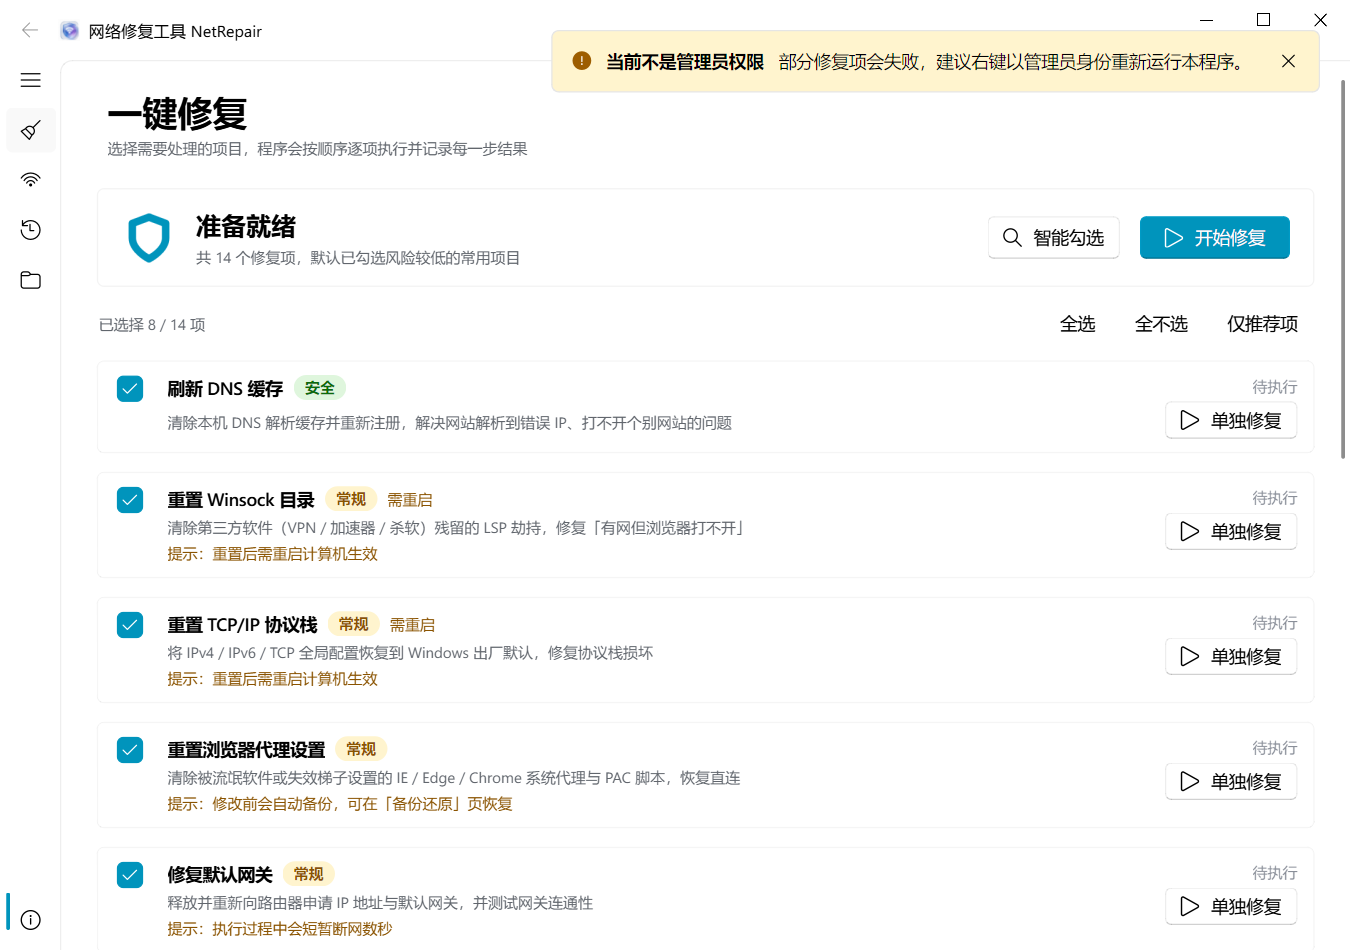
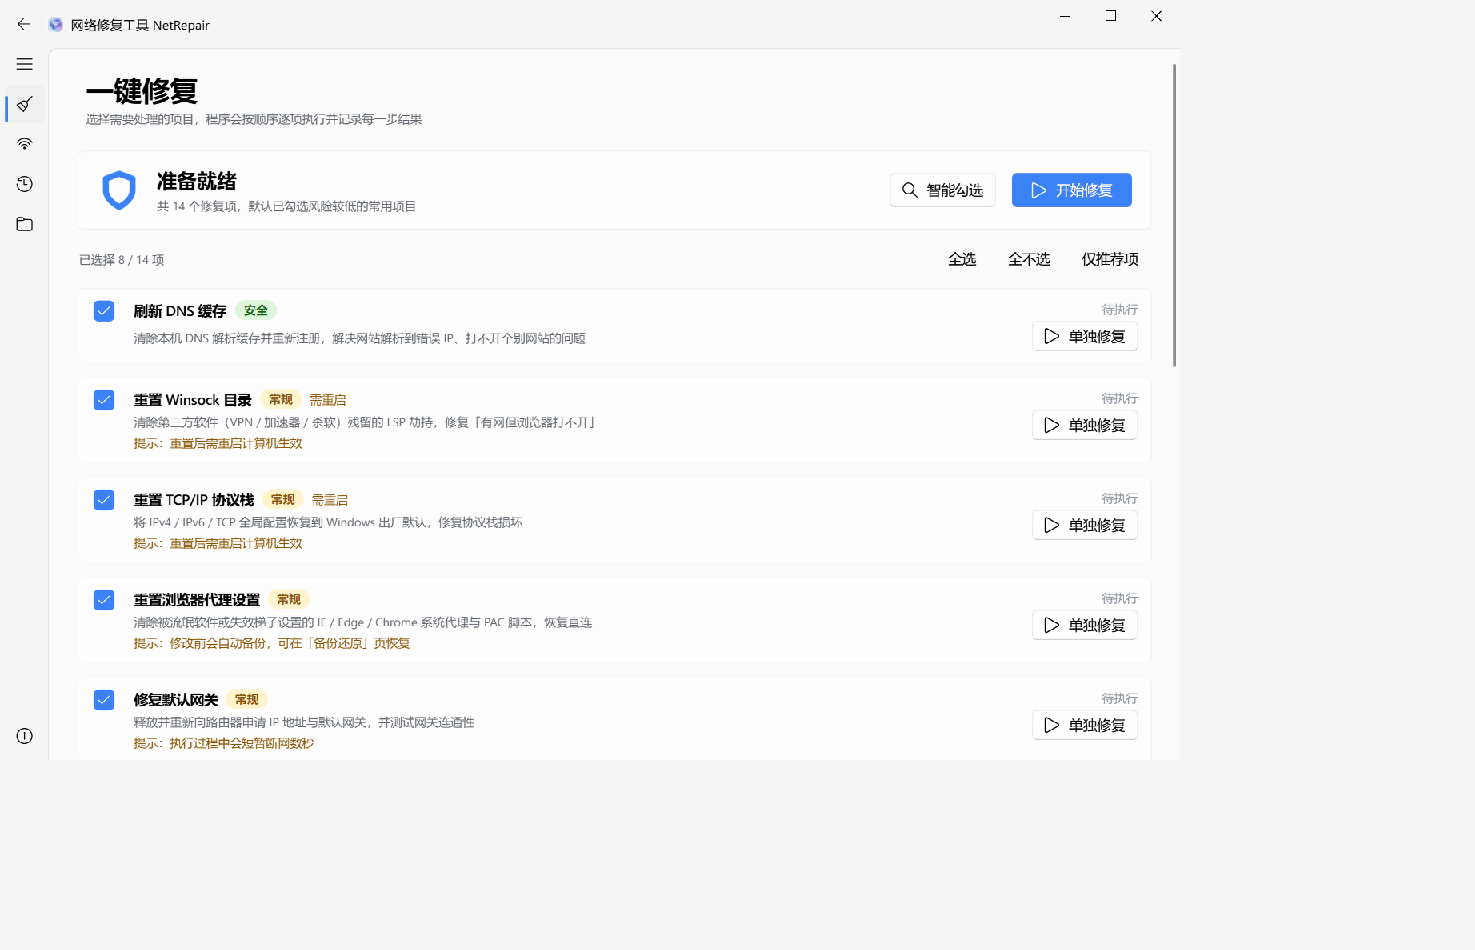
docs: 重新生成截图（v1.2.0，switchTo 导航 + 合成白底消除透明边伪影）

diff --git a/screenshot.py b/screenshot.py
@@ -1,132 +1,144 @@
-"""自动截图脚本：为 README 生成 5 张界面截图。
+"""自动截图脚本：为 README 生成 5 张界面截图（v1.2.0）。
+
+修复要点（相对旧版）：
+  1. 调用 setTheme(Theme.LIGHT) —— 否则 FluentWindow 背景不填，grab() 会把
+     透明区域也截下来（旧图左右大黑边的根因）。
+  2. 切页前先关掉所有 InfoBar（含"当前不是管理员权限"提示条）。
+  3. 切页后多跑 processEvents 并加一次单次定时器等待，确保页面真正渲染完成
+     （旧版 about 截图实际上是修复页 = 导航没生效就 grab 了）。
+  4. 显式 setThemeColor 选一个统一主题色（与 app 默认一致），最后一张切到
+     蓝绿色作为"主题色切换"对照。
 
 用法：
     venv\\Scripts\\python.exe screenshot.py
-
-输出：
-    shots/fluent-about.png
-    shots/fluent-repair.png
-    shots/fluent-diagnose.png
-    shots/fluent-backup.png
-    shots/fluent-accent-blue.png（主题色切换页）
 """
 from __future__ import annotations
 
 import os
 import sys
 
-# ---- 路径设置 ----
 ROOT = os.path.dirname(os.path.abspath(__file__))
 sys.path.insert(0, ROOT)
 os.chdir(ROOT)
 
-# 跳过管理员提权，截图不需要
+# 跳过管理员提权检查（截图不需要）
 sys.argv.append("--no-elevate")
 
-from PySide6.QtCore import Qt, QTimer
-from PySide6.QtGui import QColor, QFont, QFontDatabase
+from PySide6.QtCore import QEventLoop, QTimer, Qt
+from PySide6.QtGui import QColor, QFont, QFontDatabase, QPainter, QPixmap
 from PySide6.QtWidgets import QApplication
-from qfluentwidgets import setThemeColor
+from qfluentwidgets import InfoBar, setTheme, setThemeColor, Theme
 
 from netfix.ui import MainWindow
 
 SHOTS_DIR = os.path.join(ROOT, "shots")
 os.makedirs(SHOTS_DIR, exist_ok=True)
 
-# 截图配置：(文件名, routeKey, 说明)
+# 与 app 默认一致的主题色（_ACCENTS[0]）
+DEFAULT_ACCENT = "#0094BC"
+
+# 截图配置：(文件名, MainWindow 上的页面属性, 说明)
+# 用 switchTo(页面对象) 导航，比 navigationInterface.setCurrentItem(routeKey)
+# 稳定得多（旧版 routeKey 切换在沙箱里完全不生效，5 张都截到首页）。
 SHOTS = [
-    ("fluent-repair.png",   "repairInterface",   "一键修复（首页）"),
-    ("fluent-diagnose.png", "diagnoseInterface", "网络诊断"),
-    ("fluent-backup.png",   "backupInterface",   "备份还原"),
-    ("fluent-about.png",    "aboutInterface",    "关于"),
+    ("fluent-repair.png",   "repairPage",   "一键修复（首页）"),
+    ("fluent-diagnose.png", "diagnosePage", "网络诊断"),
+    ("fluent-backup.png",   "backupPage",   "备份还原"),
+    ("fluent-about.png",    "aboutPage",    "关于"),
 ]
 
 
 def setup_chinese_font(app: QApplication) -> None:
-    """强制使用系统中文字体，解决 offscreen/沙箱中文渲染为方框的问题。"""
-    # 优先级列表：Windows 常见中文字体
     fallbacks = [
-        "Microsoft YaHei UI",
-        "Microsoft YaHei",
-        "SimHei",
-        "PingFang SC",
-        "Noto Sans CJK SC",
-        "WenQuanYi Micro Hei",
+        "Microsoft YaHei UI", "Microsoft YaHei", "SimHei",
+        "PingFang SC", "Noto Sans CJK SC", "WenQuanYi Micro Hei",
     ]
-
-    # 尝试从系统字体库查找第一个可用的中文字体
     families = QFontDatabase.families()
-    chosen = None
-    for font_name in fallbacks:
-        if font_name in families:
-            chosen = font_name
-            break
-
-    if chosen:
-        font = QFont(chosen, 9)
-        app.setFont(font)
-        print(f"Font set: {chosen}")
-    else:
-        print(f"WARNING: No Chinese font found. Available sample: {families[:10]}")
-        # 退而求其次：用默认字体但设大一点
-        font = app.font()
-        font.setFamilies(["Microsoft YaHei UI", "Sans Serif"])
-        app.setFont(font)
+    for name in fallbacks:
+        if name in families:
+            app.setFont(QFont(name, 9))
+            print(f"Font: {name}")
+            return
+    print(f"WARN: no CN font, sample: {families[:8]}")
+    f = app.font()
+    f.setFamilies(["Microsoft YaHei UI", "Sans Serif"])
+    app.setFont(f)
 
 
-def grab_window(window: MainWindow, path: str) -> None:
+def close_all_infobars(window: QApplication) -> None:
+    """清掉所有 InfoBar（主要是 _greet 弹的'非管理员'提示条）。"""
+    for w in window.allWidgets():
+        if isinstance(w, InfoBar):
+            w.close()
+
+
+def wait_ms(ms: int) -> None:
+    """跑 processEvents 并真实等待 ms 毫秒（用 QEventLoop + QTimer）。"""
+    loop = QEventLoop()
+    QTimer.singleShot(ms, loop.quit)
+    loop.exec()
+
+
+def grab(window: MainWindow, filename: str) -> None:
+    """截图并把透明区域合成为白底（消除沙箱里 grab 出来的黑边伪影）。"""
     window.repaint()
-    QApplication.processEvents()
+    wait_ms(120)
+    raw = window.grab()
+    # 合成白底：透明区域填成浅灰白（Fluent Design LIGHT 主题底色）
+    bg = QPixmap(raw.size())
+    bg.fill(QColor("#F5F5F5"))
+    painter = QPainter(bg)
+    painter.drawPixmap(0, 0, raw)
+    painter.end()
+    path = os.path.join(SHOTS_DIR, filename)
+    bg.save(path, "PNG")
+    print(f"  OK {filename}  {bg.width()}x{bg.height()}  "
+          f"{os.path.getsize(path)//1024} KB")
 
-    pixmap = window.grab()
-    full_path = os.path.join(SHOTS_DIR, path)
-    pixmap.save(full_path, "PNG")
-    size_kb = os.path.getsize(full_path) / 1024
-    print(f"  OK {path} ({pixmap.width()}x{pixmap.height()}, {size_kb:.0f} KB)")
+
+def switch_to(window: MainWindow, page_attr: str) -> None:
+    """用 FluentWindow.switchTo(页面对象) 切换——比 routeKey 稳。"""
+    page = getattr(window, page_attr)
+    window.switchTo(page)
+    wait_ms(300)  # 给导航 + 页面渲染留时间
 
 
 def main() -> int:
     app = QApplication(sys.argv)
     setup_chinese_font(app)
 
+    # 关键：设置 LIGHT 主题，让 FluentWindow 有不透明背景
+    setTheme(Theme.LIGHT)
+    # 统一主题色（与 app 默认一致）；最后一张切到蓝绿色对比
+    setThemeColor(QColor(DEFAULT_ACCENT))
+
     window = MainWindow()
-    window.resize(1080, 760)
+    window.resize(1180, 760)
     window.show()
-    QApplication.processEvents()
+    wait_ms(400)  # 等 _greet InfoBar 弹出来，然后再清掉
 
-    for _ in range(30):
-        QApplication.processEvents()
+    # 1) 关闭"当前不是管理员权限"提示条（screenshot 进程非管理员）
+    close_all_infobars(app)
+    wait_ms(120)
 
-    print("Screenshot start...\n")
+    print("== screenshots ==\n")
+    for filename, page_attr, desc in SHOTS:
+        switch_to(window, page_attr)
+        close_all_infobars(app)  # 某些页切换可能再触发
+        grab(window, filename)
+        print(f"   ({desc})\n")
 
-    nav = window.navigationInterface
-
-    for filename, route_key, desc in SHOTS:
-        nav.setCurrentItem(route_key)
-        QApplication.processEvents()
-        for _ in range(15):
-            QApplication.processEvents()
-
-        grab_window(window, filename)
-        print(f"  -> {desc}\n")
-
-    # === 第 5 张：蓝色主题色 + 修复页 ===
-    print("Switching to BLUE theme...")
-    setThemeColor(QColor("#0094BC"))
-    QApplication.processEvents()
-    for _ in range(20):
-        QApplication.processEvents()
-
-    nav.setCurrentItem("repairInterface")
-    QApplication.processEvents()
-    for _ in range(15):
-        QApplication.processEvents()
-
-    grab_window(window, "fluent-accent-blue.png")
-    print("  -> Theme color (BLUE) + Repair page\n")
+    # 第 5 张：切到纯蓝色主题色 + 修复页（与默认青绿形成对比，演示"主题色切换"）
+    print("== accent color ==\n")
+    setThemeColor(QColor("#3B82F6"))  # 纯蓝（与默认青绿 #0094BC 形成对比）
+    wait_ms(150)
+    switch_to(window, "repairPage")
+    close_all_infobars(app)
+    grab(window, "fluent-accent-blue.png")
+    print("   (主题色: 纯蓝 #3B82F6 + 修复页，与默认青绿对比)\n")
 
     window.close()
-    print("All done! Screenshots saved to shots/")
+    print("done -> shots/")
     return 0
 
 
